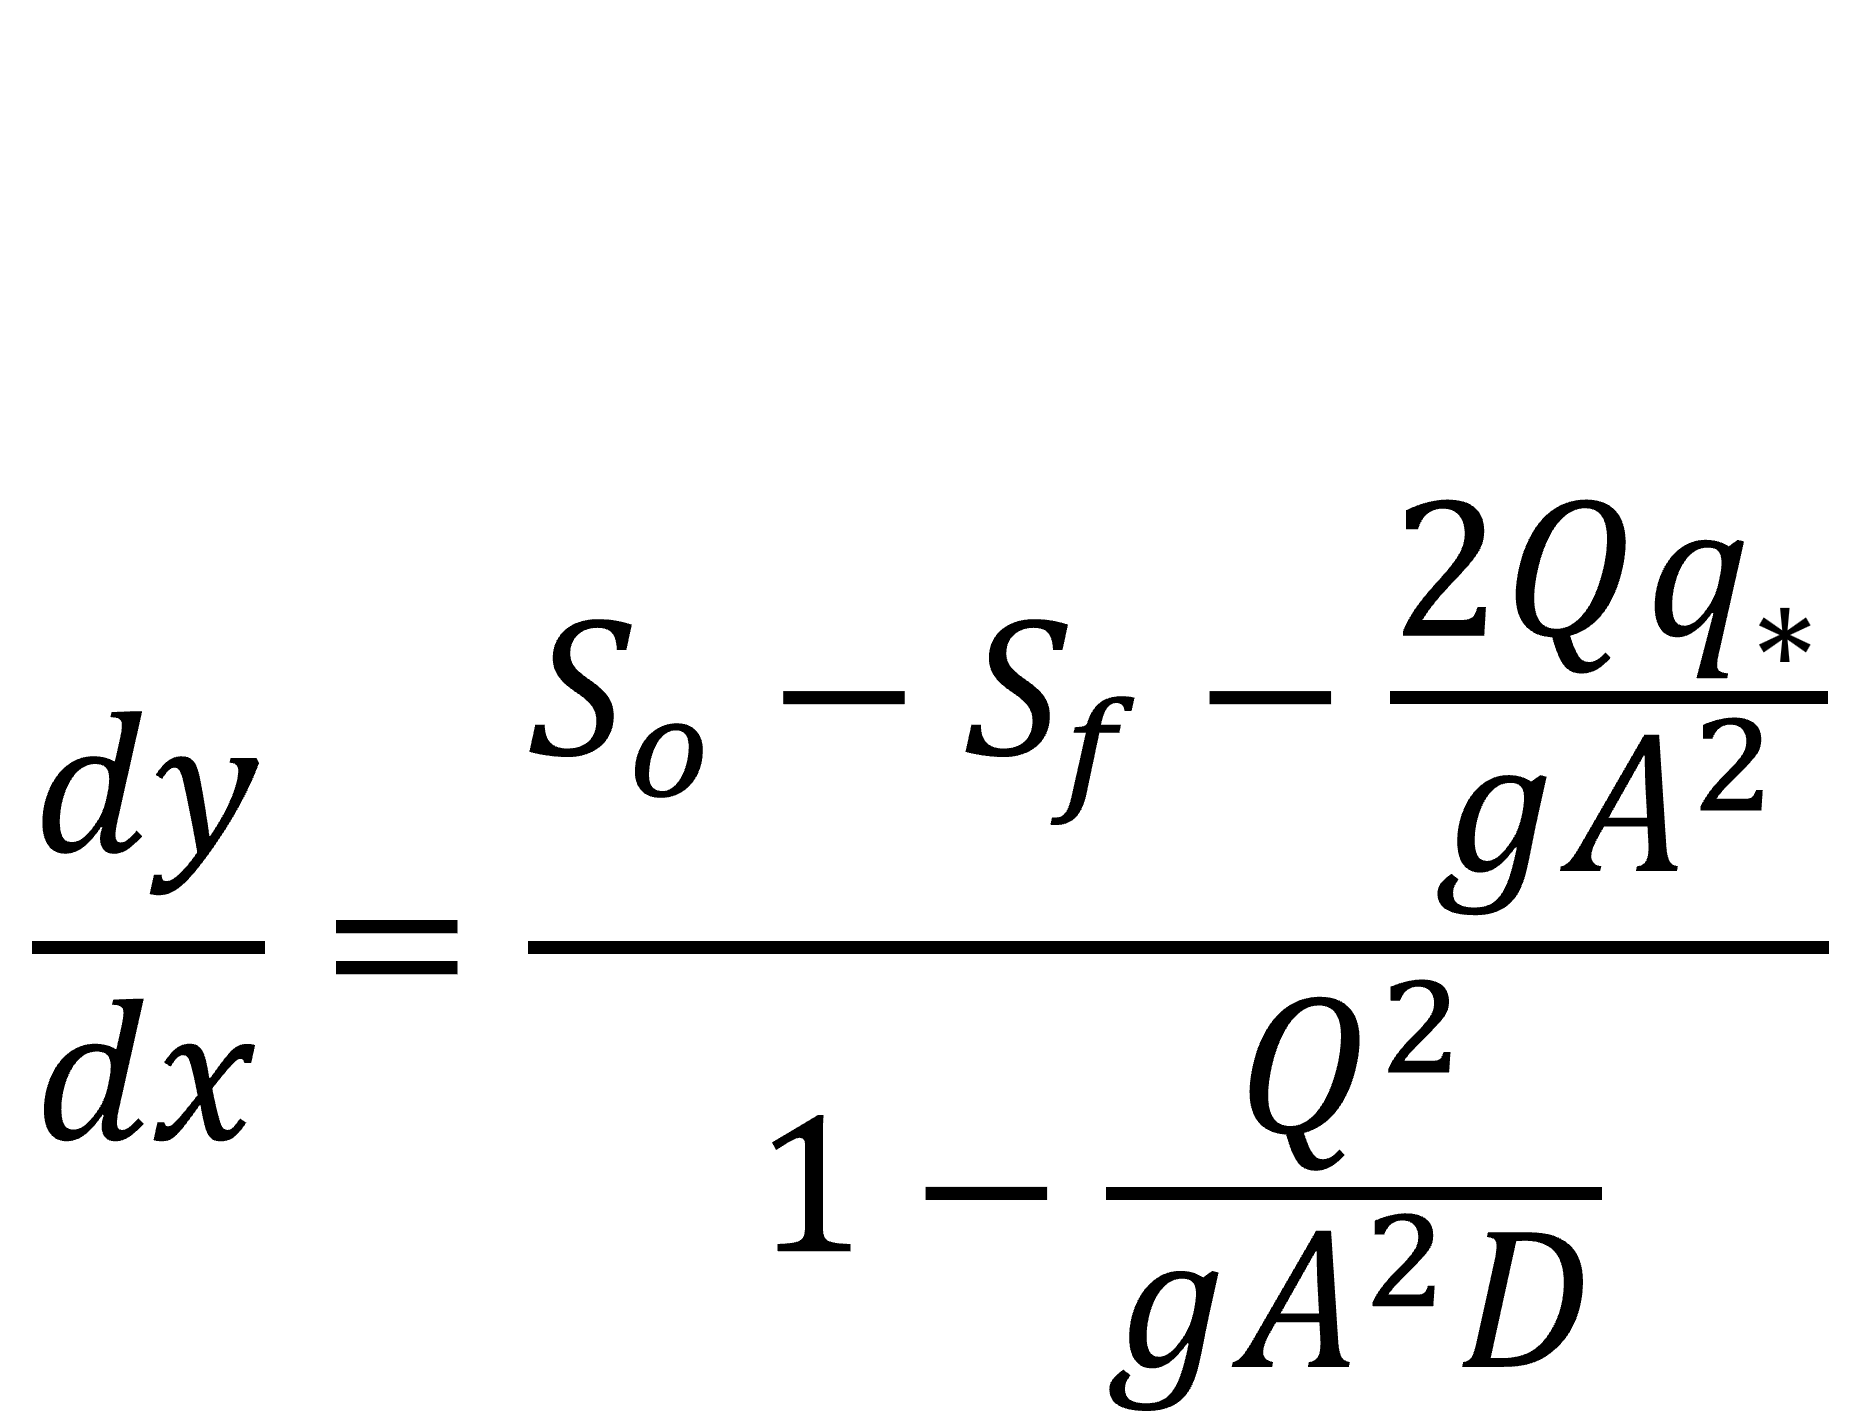
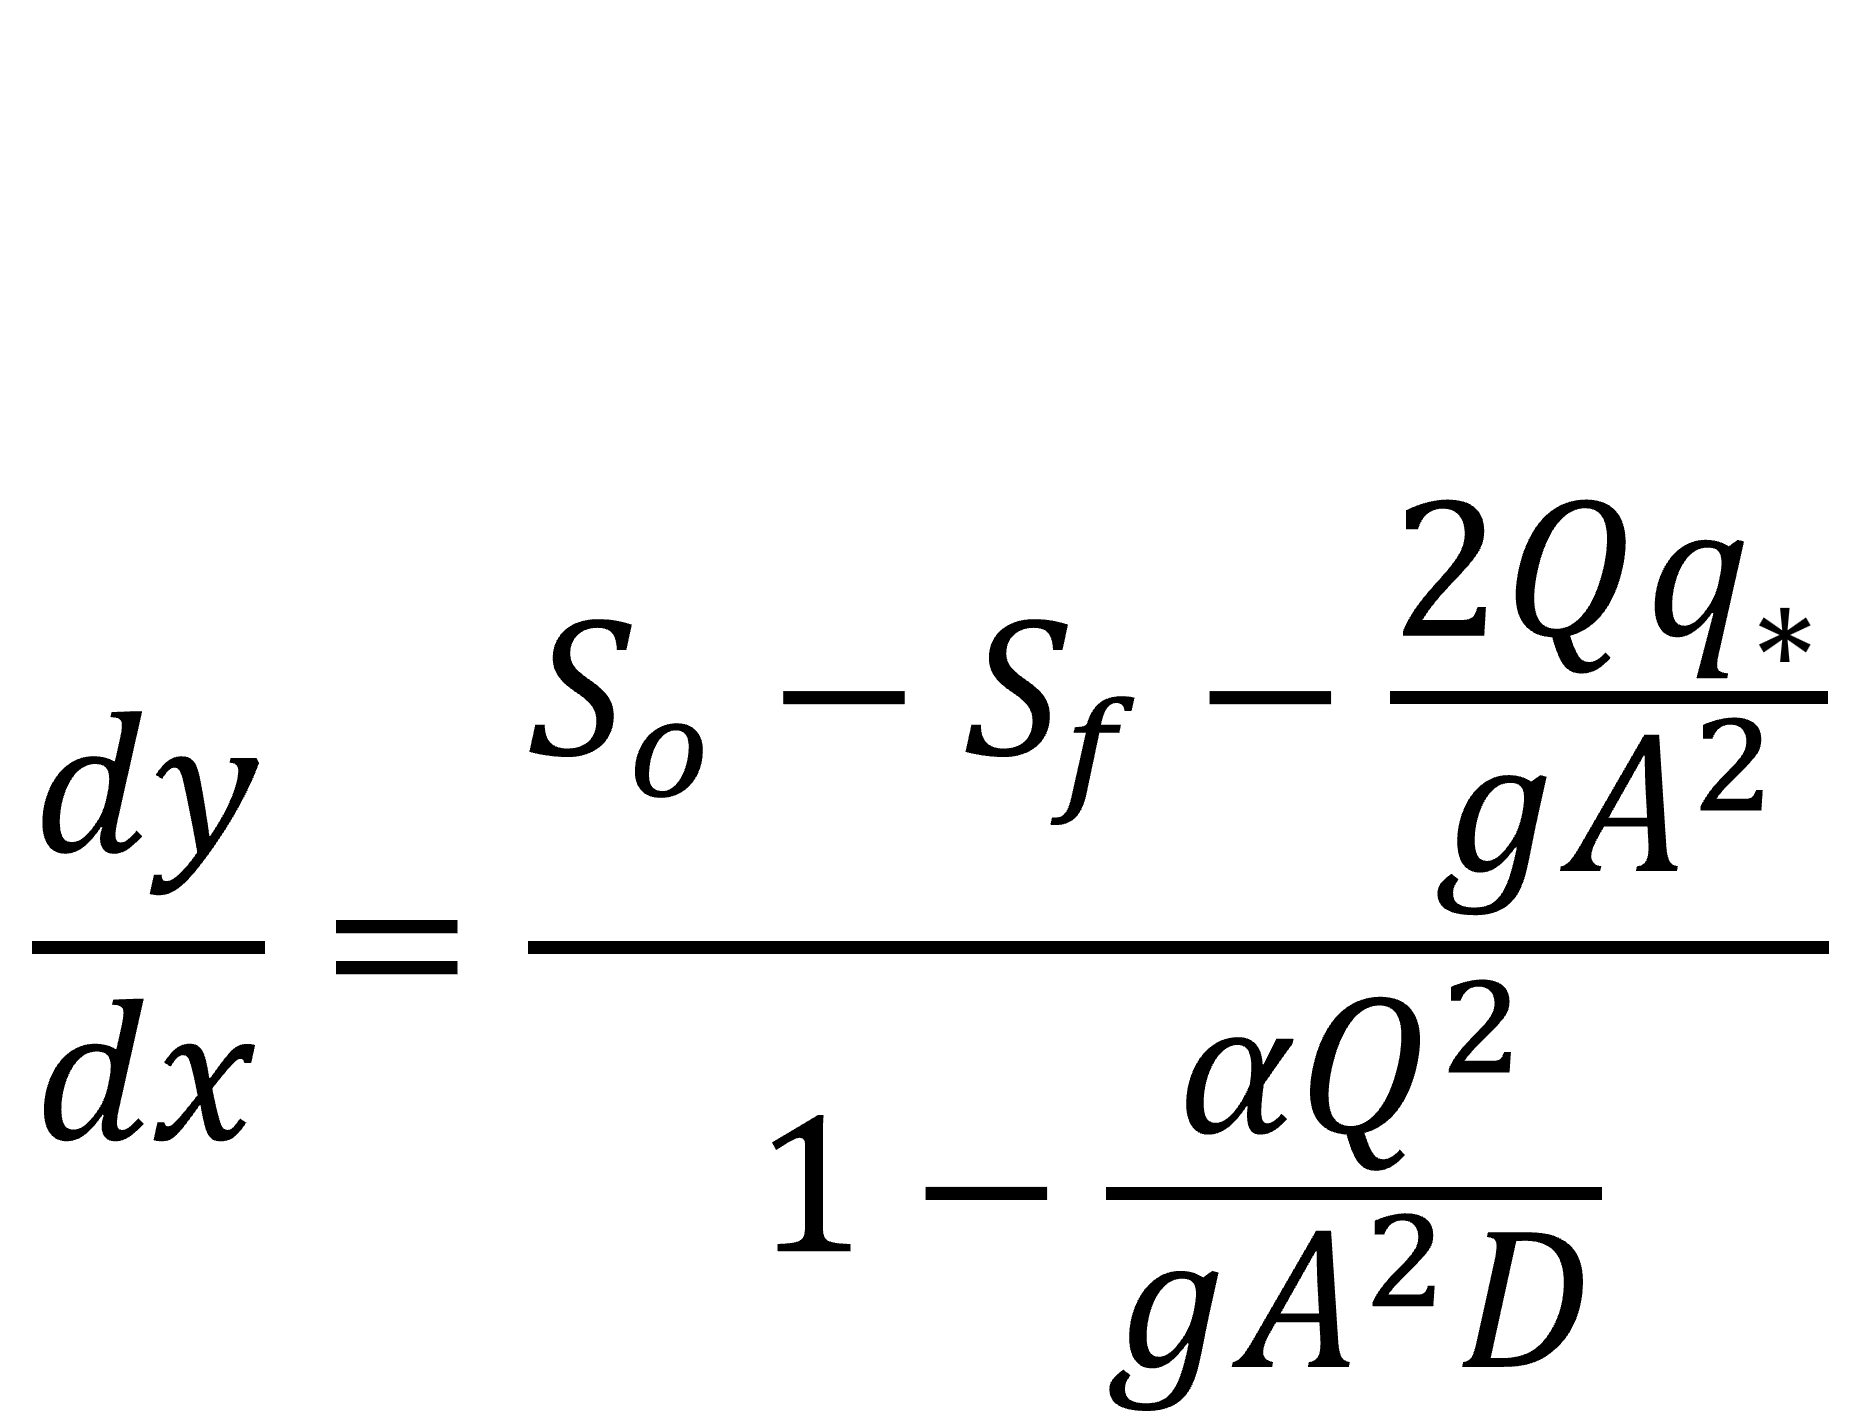
Update Section 1

Changed region(s): [[0.6233, 0.6793, 0.8103, 0.8337]]

diff --git a/Section01/VariedFlow/Readme.md b/Section01/VariedFlow/Readme.md
@@ -88,7 +88,7 @@ El análisis del FGV parte dos supuestos básicos:
 Para establecer esta ecuación, partimos de la imagen previa y la ecuación de energía en un tramo <kbd>dx</kbd> de canal a superficie libre con FGV: **$H=z+y+\frac{V^{2}}{2g}$**. Se evalúa la variación de la energía total <kbd>H</kbd> en el espacio <kbd>dx</kbd> y se obtiene la variación del perfil de flujo en el espacio o su pendiente $S_{W}=\frac{dy}{dx}$, teniendo en cuenta la pendiente del fondo $S_{0}=\frac{dz}{dx}$ y la pendiente de la línea de energía $S_{E}=\frac{dH}{dx}$, obteniendo finalmente la siguiente ecuación:
 
 <div align="center">
-$\frac{dy}{dx}=\frac{S_{0}-S_{f}}{1-\frac{\alpha Q^{2}T}{gA^{3}}}$
+<img alt="J.HRAS" src="Equations/FGV.png" width="30%">
 </div>
 
 #### Características de los perfiles
@@ -133,7 +133,7 @@ En este tipo de flujo, se presentan pérdidas de energía por la mezcla turbulen
 A partir de la ecuación de conservación del *momentum*, es posible plantear la ecuación dinámica para el FEV con caudal creciente. Cuando la variación del caudal **(q<sub>*</sub>)** es cero, esta ecuación se convierte en la ecuación dinámica del FGV con caudal constante.
 
 <div align="center">
-<img alt="J.HRAS" src="Equations/FEV1.png" width="20%">
+<img alt="J.HRAS" src="Equations/FEV1.png" width="25%">
 </div>
     
 
